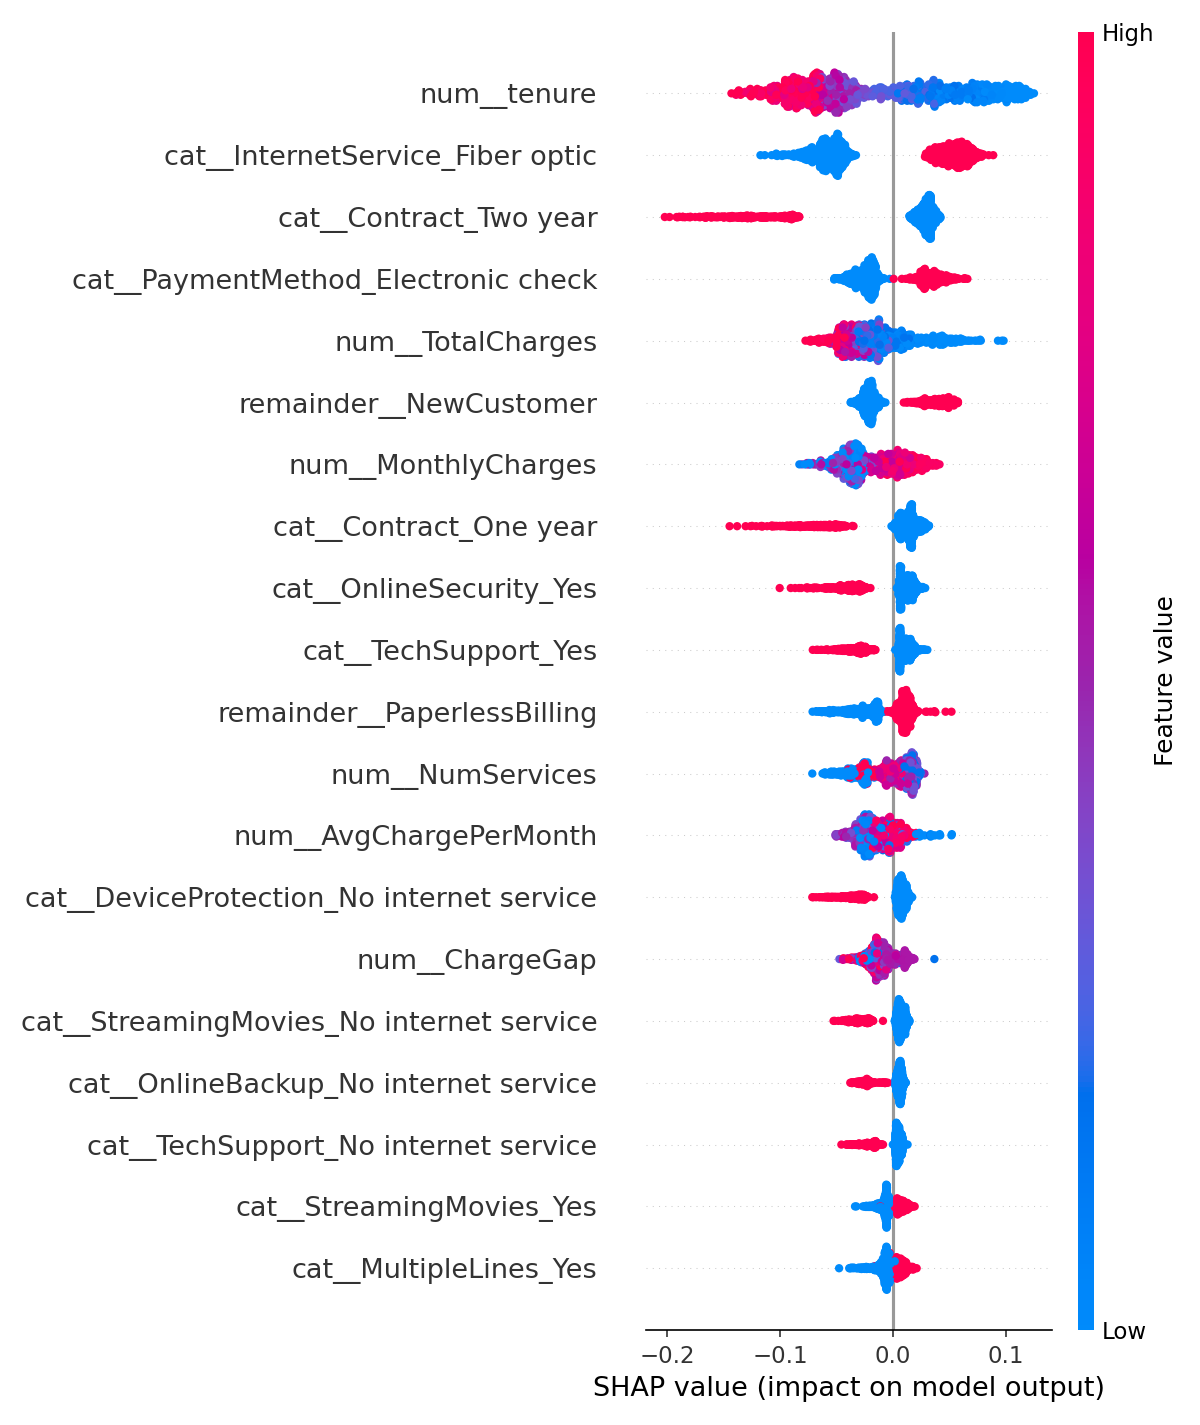
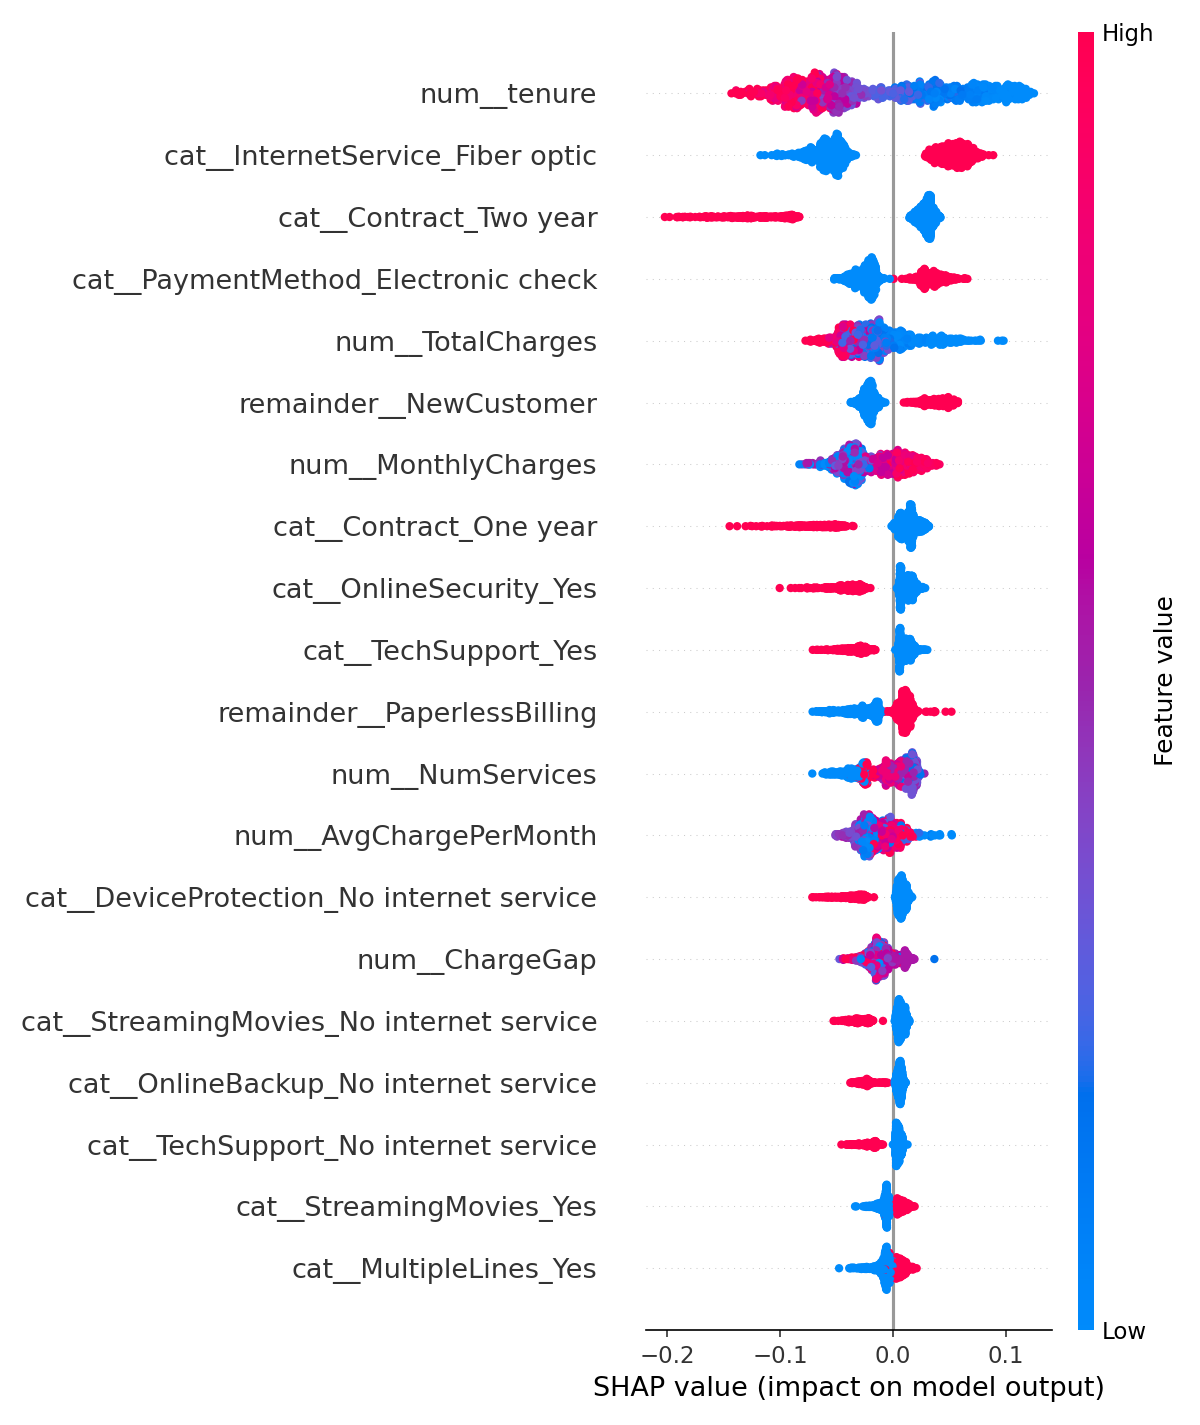
Versionado de modelos en JSON añadido

diff --git a/src/models/train_models.py b/src/models/train_models.py
@@ -1,4 +1,6 @@
 import os
+import json
+from datetime import datetime
 import pandas as pd
 import joblib
 from sklearn.model_selection import GridSearchCV
@@ -12,6 +14,7 @@ from sklearn.metrics import accuracy_score, roc_auc_score, f1_score
 from sklearn.dummy import DummyClassifier
 from xgboost import XGBClassifier
 from src.data.make_dataset import load_dataset
+from src.visualization.visualize import generate_shap_summary
 
 BASE_DIR = os.path.abspath(os.path.join(os.path.dirname(__file__), "..", ".."))
 processed_data_path = os.path.join(BASE_DIR, "data", "processed", "data.csv")
@@ -258,6 +261,59 @@ def main() -> None:
         os.makedirs(models_dir, exist_ok=True)
         joblib.dump(best_pipeline, model_path)
         print(f"Pipeline del mejor modelo guardado con éxito en: {model_path}")
+
+    # Extraer los mejores hiperparámetros encontrados para el modelo seleccionado
+    model_step = best_pipeline.named_steps['model']
+    best_params = {
+        k.replace("model__", ""): model_step.get_params()[k.replace("model__", "")]
+        for k in param_grids[best_model_name].keys()
+    }
+
+    # Registrar las métricas del modelo actual
+    current_run_metrics = {
+        "timestamp": datetime.now().strftime("%Y-%m-%d %H:%M:%S"),
+        "model_name": best_model_name,
+        "hyperparameters": best_params,
+        "validation_metrics": {
+            "accuracy": results[best_model_name]["accuracy"],
+            "roc_auc": results[best_model_name]["roc_auc"],
+            "f1": results[best_model_name]["f1"]
+        },
+        "test_metrics": {
+            "accuracy": test_accuracy,
+            "roc_auc": test_roc_auc,
+            "f1": test_f1
+        },
+        "saved_as_best": should_save
+    }
+
+    # 1. Guardar/actualizar el histórico de experimentos
+    history_path = os.path.join(models_dir, "metrics_history.json")
+    if os.path.exists(history_path):
+        try:
+            with open(history_path, "r", encoding="utf-8") as f:
+                history = json.load(f)
+                if not isinstance(history, list):
+                    history = []
+        except Exception:
+            history = []
+    else:
+        history = []
+    
+    history.append(current_run_metrics)
+    with open(history_path, "w", encoding="utf-8") as f:
+        json.dump(history, f, indent=4, ensure_ascii=False)
+    print(f"Historial de métricas actualizado en: {history_path}")
+
+    # 2. Guardar métricas del mejor modelo activo si ha sido guardado
+    if should_save:
+        active_metrics_path = os.path.join(models_dir, "metrics.json")
+        with open(active_metrics_path, "w", encoding="utf-8") as f:
+            json.dump(current_run_metrics, f, indent=4, ensure_ascii=False)
+        print(f"Métricas del mejor modelo activo guardadas en: {active_metrics_path}")
+
+    # Generar y guardar gráfico SHAP para el mejor modelo
+    generate_shap_summary(best_pipeline, best_model_name, X_val, models_dir)
 
 if __name__ == "__main__":
     main()
